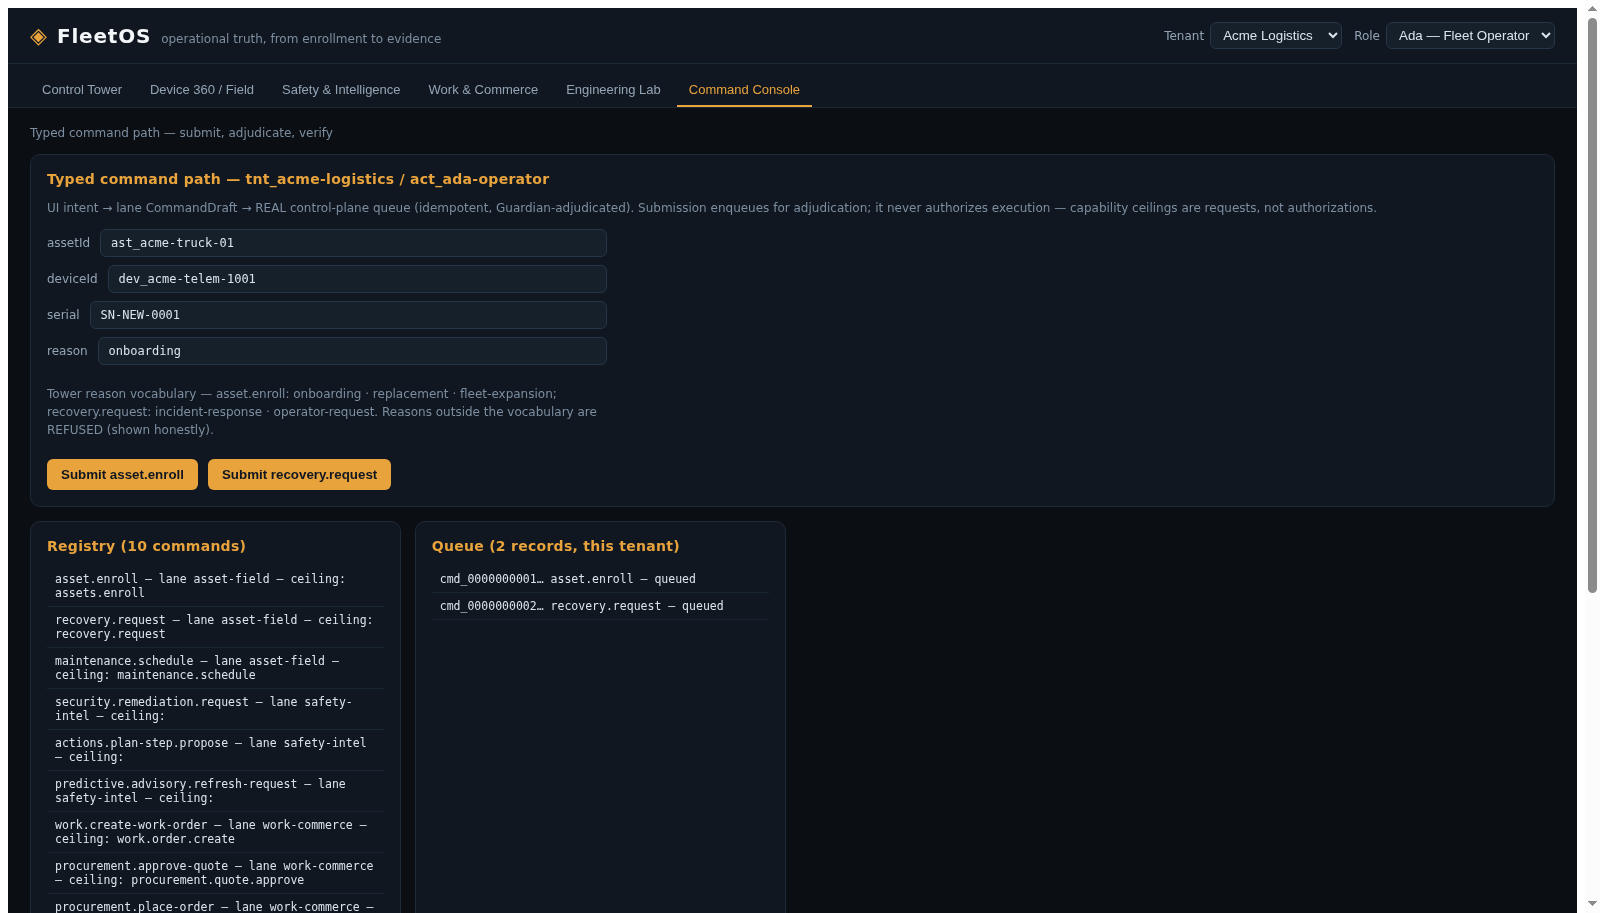
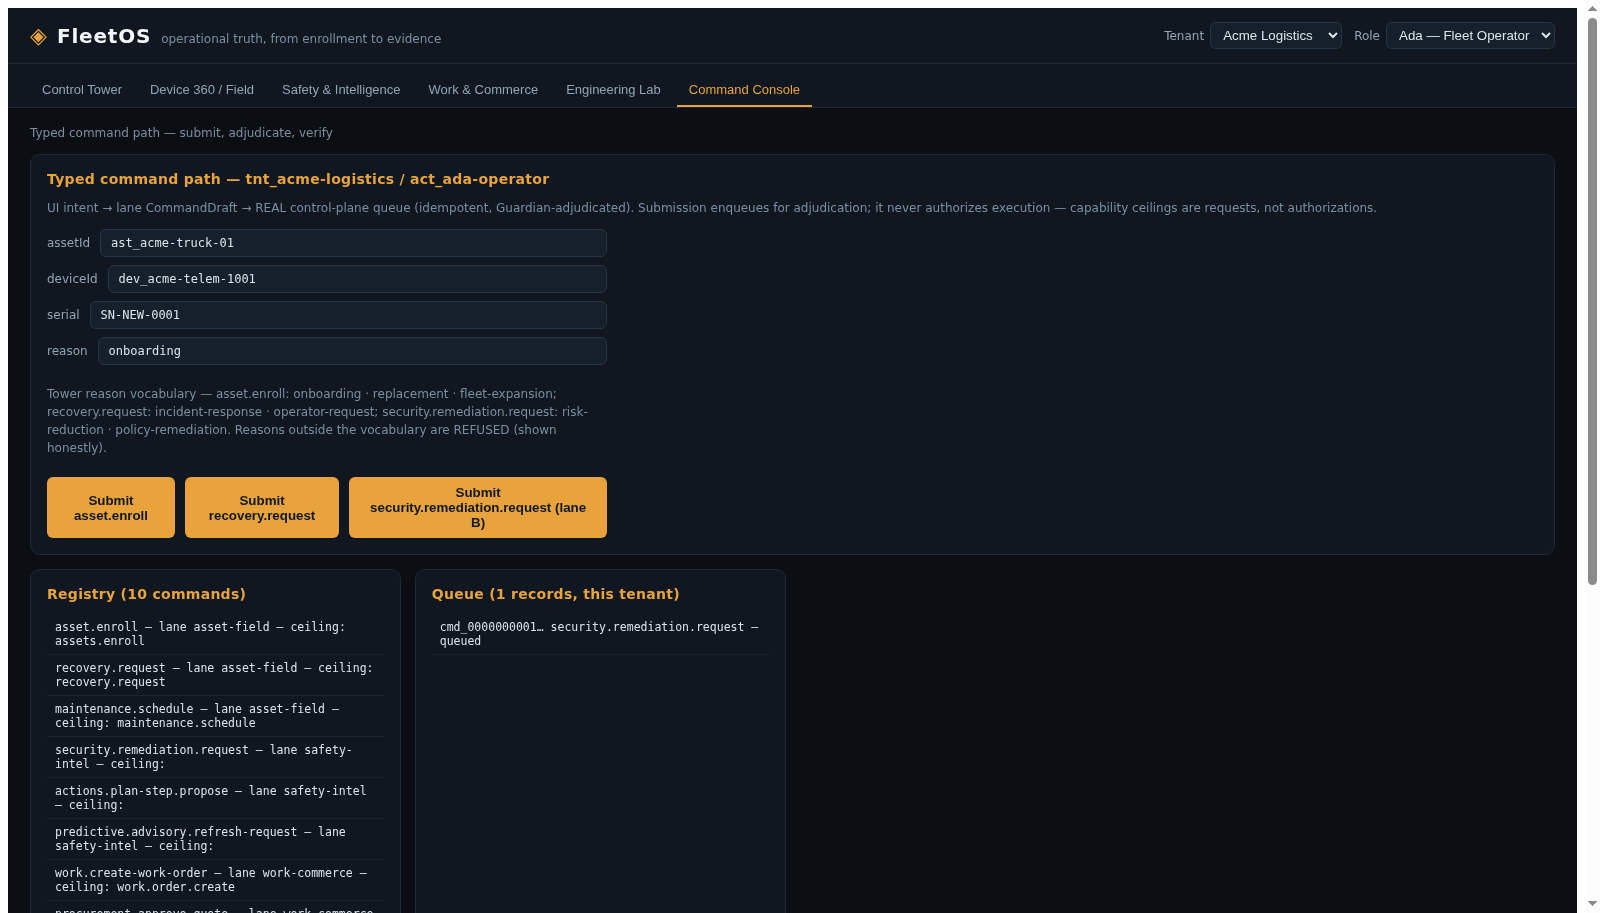
F301 (phase 2): lane surfaces bound to the REAL HostSurfaces — FieldPage now renders through the F300A adapter (assetFieldHostSurface.buildViewModels: fleet overview + Device 360 sheets with real posture + health/recovery/maintenance boards + honest route-limitation markers; host bundle digest dae96

Changed region(s): [[0.0312, 0.4294, 0.4688, 1.0]]

diff --git a/packages/web/src/fleetos/main.tsx b/packages/web/src/fleetos/main.tsx
@@ -21,6 +21,8 @@ import { buildFindingViews } from "@fleetos/experience-safety-intel";
 import { buildWorkBoard } from "@fleetos/experience-work-commerce";
 import { assembleFleetOverview } from "@fleetos/experience-asset-field";
 import { buildWorld, runLab, TENANTS, T0, type TenantWorld } from "./world.js";
+import { assetFieldHostSurface } from "@fleetos/experience-asset-field/host";
+import { makeTenantContext } from "@fleetos/identity";
 import { FleetCommandPath, type SubmissionRecord } from "./commandPath.js";
 
 declare const __FLEETOS_COMMIT__: string;
@@ -255,20 +257,37 @@ function TowerPage({ tw }: { tw: TenantWorld }) {
 }
 
 function FieldPage({ tw }: { tw: TenantWorld }) {
-  const overview = assembleFleetOverview(tw.slice, { now: T0 + 10_000 });
-  if (!overview.ok) return <RefusalView code="fleet-overview-refused" detail={String(overview.detail ?? overview.refused)} />;
-  const o = overview.view;
+  // F301 convergence: the REAL lane HostSurface (F300A) — the contract §2 seam.
+  const ctxR = makeTenantContext({
+    tenantId: tw.tenantId,
+    actorId: "act_shell-operator",
+    roleId: "role_fleet-operator",
+    establishedAt: T0 + 10_000,
+  });
+  const host = ctxR.ok ? assetFieldHostSurface.buildViewModels(tw.slice, ctxR.context) : null;
+  if (!ctxR.ok) return <RefusalView code={`context-refused/${ctxR.reason}`} detail="" />;
+  if (!host || !host.ok) {
+    return <RefusalView code={`host-refused/${host ? String(host.rejected) : "no-host"}`} detail={host?.detail ?? ""} />;
+  }
+  const vm = host.models;
+  const overview = vm.fleetOverview;
   return (
     <div className="fos-grid">
       <section className="fos-card fos-span2">
-        <h2>Fleet overview — {tw.tenantId}</h2>
-        <div className="fos-counters">
-          <div><b>{o.counters.assets}</b><span>assets ({o.counters.active} active)</span></div>
-          <div><b>{o.counters.devices}</b><span>devices</span></div>
-          <div><b>{o.counters.fresh}</b><span>fresh</span></div>
-          <div><b>{o.counters.stale}</b><span>stale</span></div>
-        </div>
-        <pre className="fos-digest">overview digest: {o.digest}</pre>
+        <h2>Fleet overview — {tw.tenantId} <span className="fos-badge">via F300A HostSurface</span></h2>
+        {overview.ok ? (
+          <>
+            <div className="fos-counters">
+              <div><b>{overview.view.counters.assets}</b><span>assets ({overview.view.counters.active} active)</span></div>
+              <div><b>{overview.view.counters.devices}</b><span>devices</span></div>
+              <div><b>{overview.view.counters.fresh}</b><span>fresh</span></div>
+              <div><b>{overview.view.counters.stale}</b><span>stale</span></div>
+            </div>
+            <pre className="fos-digest">overview digest: {overview.view.digest} · host bundle digest: {vm.digest}</pre>
+          </>
+        ) : (
+          <RefusalView code="fleet-overview-refused" detail={String(overview.detail ?? overview.rejected)} />
+        )}
       </section>
       <section className="fos-card">
         <h2>Assets (real directory)</h2>
@@ -282,15 +301,26 @@ function FieldPage({ tw }: { tw: TenantWorld }) {
         </table>
       </section>
       <section className="fos-card">
-        <h2>Devices & enrollment</h2>
+        <h2>Device 360 (host sheets, assetId order)</h2>
         <table className="fos-table">
-          <thead><tr><th>device</th><th>asset</th><th>serial</th></tr></thead>
+          <thead><tr><th>asset</th><th>outcome</th></tr></thead>
           <tbody>
-            {tw.devices.map((d) => (
-              <tr key={d.id}><td>{d.id}</td><td>{d.assetId}</td><td>{d.serial}</td></tr>
+            {vm.device360.map((s) => (
+              <tr key={s.assetId}>
+                <td>{s.assetId}</td>
+                <td>{s.outcome.ok ? `${s.outcome.view.displayName} · ${s.outcome.view.lifecycle} · posture ${s.outcome.view.posture}` : `REFUSED ${String(s.outcome.rejected)}`}</td>
+              </tr>
             ))}
           </tbody>
         </table>
+      </section>
+      <section className="fos-card fos-span2">
+        <h2>Health board / recovery timeline / maintenance (host view models)</h2>
+        <ul className="fos-list">
+          <li>health board: {vm.healthBoard.ok ? `${vm.healthBoard.view.rows.length} rows · fleet: ${vm.healthBoard.view.fleet.assets} assets, ${vm.healthBoard.view.fleet.critical} critical, ${vm.healthBoard.view.fleet.warning} warning` : `REFUSED ${String(vm.healthBoard.rejected)}`}</li>
+          <li>recovery timeline: {vm.recoveryTimeline.ok ? `${vm.recoveryTimeline.view.cases.length} case timeline(s), ${vm.recoveryTimeline.view.open} open` : `REFUSED ${String(vm.recoveryTimeline.rejected)}`}</li>
+          <li>maintenance board: {vm.maintenanceBoard.ok ? `${vm.maintenanceBoard.view.scheduled.length} scheduled · ${vm.maintenanceBoard.view.inProgress.length} in progress · ${vm.maintenanceBoard.view.completed.length} completed` : `REFUSED ${String(vm.maintenanceBoard.rejected)}`}</li>
+        </ul>
       </section>
       <section className="fos-card fos-span2">
         <h2>Observation timeline (ingested through the real pipeline)</h2>
@@ -308,16 +338,12 @@ function FieldPage({ tw }: { tw: TenantWorld }) {
         </table>
       </section>
       <section className="fos-card fos-span2">
-        <h2>Health findings (real triage)</h2>
-        {tw.healthFindings.length === 0 ? (
-          <EmptyView what="health-finding" />
-        ) : (
-          <ul className="fos-list">
-            {tw.healthFindings.map((f, i) => (
-              <li key={i}>{String(f.deviceId)} — {f.code} — {f.severity}</li>
-            ))}
-          </ul>
-        )}
+        <h2>Route limitation markers (honest, per contract §2)</h2>
+        <ul className="fos-list fos-mono">
+          {vm.routeLimitations.map((r) => (
+            <li key={r.routeId}>{r.routeId}: {r.markers.length ? r.markers.join(", ") : "(none)"}</li>
+          ))}
+        </ul>
       </section>
     </div>
   );
@@ -507,6 +533,18 @@ function CommandsPage(props: {
     setLast(r.ok ? `ENQUEUED ${r.ack.commandId} (duplicate=${r.ack.duplicate})` : `REFUSED ${r.refused}: ${r.detail}`);
     onSubmit();
   };
+  const submitRemediation = () => {
+    const proposal = tw.remediations[0];
+    if (!proposal) { setLast("No remediation proposal in this demo composition."); return; }
+    const r = cmdPath.submitRemediationRequest(ctx, {
+      proposalId: proposal.proposalId,
+      findingIds: [...proposal.findingIds],
+      remediationKind: proposal.remediationKind,
+      reason: "risk-reduction",
+    });
+    setLast(r.ok ? `ENQUEUED ${r.ack.commandId} (duplicate=${r.ack.duplicate})` : `REFUSED ${r.refused}: ${r.detail}`);
+    onSubmit();
+  };
 
   return (
     <div className="fos-grid">
@@ -524,12 +562,14 @@ function CommandsPage(props: {
           <label>reason <input value={reason} onChange={(e) => setReason(e.target.value)} /></label>
           <p className="fos-note">
             Tower reason vocabulary — asset.enroll: onboarding · replacement · fleet-expansion;
-            recovery.request: incident-response · operator-request. Reasons outside the
-            vocabulary are REFUSED (shown honestly).
+            recovery.request: incident-response · operator-request;
+            security.remediation.request: risk-reduction · policy-remediation. Reasons outside
+            the vocabulary are REFUSED (shown honestly).
           </p>
           <div className="fos-actions">
             <button onClick={submitEnroll}>Submit asset.enroll</button>
             <button onClick={submitRecovery}>Submit recovery.request</button>
+            <button onClick={submitRemediation}>Submit security.remediation.request (lane B)</button>
           </div>
         </div>
         {last && <pre className="fos-result">{last}</pre>}
@@ -635,6 +675,7 @@ const STYLES = `
 .fos-bad { color: #ff9d8f; }
 .fos-footer { display: flex; justify-content: space-between; gap: 14px; flex-wrap: wrap; padding: 12px 22px; background: #101720; border-top: 1px solid #1d2a38; color: #56697c; font-size: 11px; }
 .fos-commit code { color: #93a4b5; }
+.fos-badge { font-size: 10px; color: #e8a33d; border: 1px solid #4a3c1d; border-radius: 4px; padding: 1px 6px; margin-left: 8px; vertical-align: middle; }
 @media (max-width: 720px) { .fos-header { flex-direction: column; align-items: flex-start; } }
 `;
 

diff --git a/packages/web/src/fleetos/commandPath.ts b/packages/web/src/fleetos/commandPath.ts
@@ -13,6 +13,7 @@ import {
   type TowerSubmitResult,
 } from "@fleetos/control-tower";
 import { buildEnrollAssetIntent, buildRequestRecoveryIntent } from "@fleetos/experience-asset-field";
+import { requestRemediation } from "@fleetos/experience-safety-intel";
 import type { CommandRecord } from "@fleetos/control-plane";
 
 export interface SubmissionRecord {
@@ -121,5 +122,28 @@ export class FleetCommandPath {
   ): void {
     this.submissions.unshift({ at: Date.now(), kind, actor, ok, detail, commandId, duplicate, idempotencyKey });
     if (this.submissions.length > 50) this.submissions.length = 50;
+  }
+
+  /** Submit a security remediation request from the UI (REAL pipeline, lane B). */
+  submitRemediationRequest(
+    ctx: TenantContext,
+    input: { proposalId: string; findingIds: string[]; remediationKind: string; reason: string },
+  ): TowerSubmitResult {
+    const draftR = requestRemediation({
+      intentId: `intent-shell-${input.proposalId}`,
+      tenantId: String(ctx.tenantId),
+      actorId: String(ctx.actorId),
+      requiredCapabilityId: "security.remediation.request",
+      reason: input.reason,
+      issuedAt: Date.now(),
+      proposalId: input.proposalId,
+      findingIds: input.findingIds,
+      remediationKind: input.remediationKind,
+    });
+    if (!draftR.ok) {
+      this.record(String(ctx.actorId), "security.remediation.request", false, `draft refused: ${draftR.refused}`, null, false, "-");
+      return { ok: false, refused: "queue-rejected", detail: String(draftR.refused) } as never;
+    }
+    return this.submitDraft(ctx, draftR.draft as TowerCommandDraft);
   }
 }
